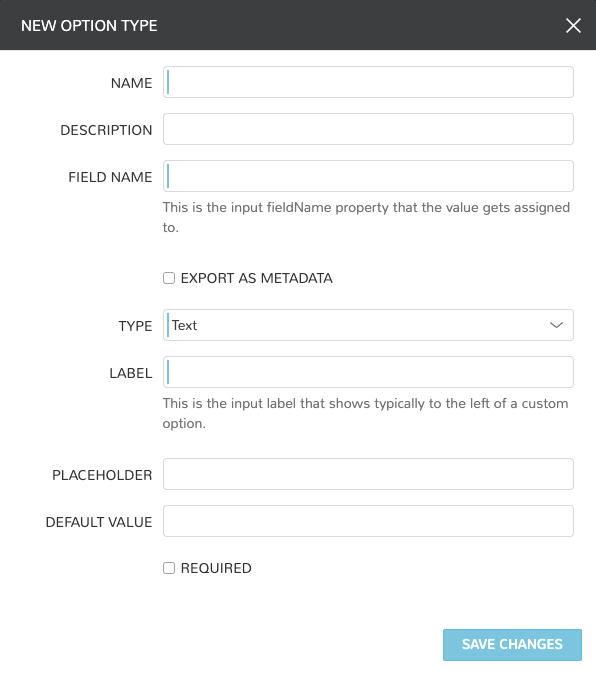
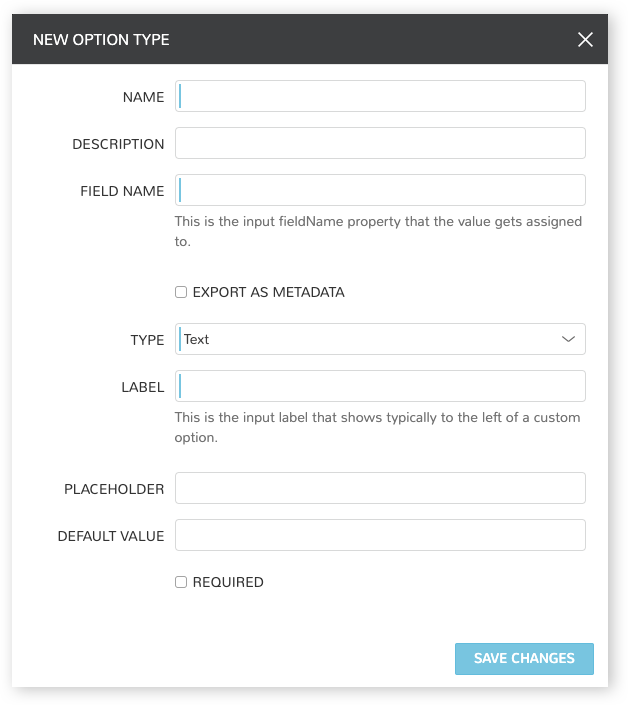
option type image update

Changed region(s): [[0.0, 0.0, 1.0, 0.9985], [0.0906, 0.7489, 0.4228, 0.8737], [0.0906, 0.6865, 0.302, 0.7177]]

diff --git a/provisioning/library/option_types.rst b/provisioning/library/option_types.rst
@@ -4,11 +4,13 @@ Option Types
 Option Types are custom input fields that can be added to Instance Types and Layouts and used in Instance, App and Cloning wizards. The resulting value is available in the Instance config map as <%=customOptions.fieldName%>, and the filedName and value can also be exported as metadata.
 
 .. image:: /images/provisioning/library/addOptionType.png
+   :align: center
 
 Create Option Type
 ^^^^^^^^^^^^^^^^^^
 
 .. note:: All Fields listed. Applicable fields depend on ``TYPE`` selection
+
 NAME
  Name of the Option Type
 DESCRIPTION

diff --git a/provisioning/library/option_lists.rst b/provisioning/library/option_lists.rst
@@ -6,7 +6,7 @@ Option Lists allow you to give the user more choices during provisioning to then
 .. NOTE:: JSON entries must be formatted like the following example: ``[{"name":"Test","value":1},{"name":"Testing","value":2}]``
 
 .. image:: /images/provisioning/library/newOptionList.png
-
+   :align: center
 Create Option List
 ^^^^^^^^^^^^^^^^^^
 
